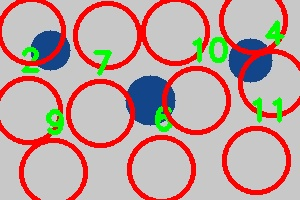
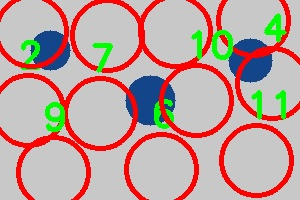
Fix circle size and positioning to properly highlight walnuts
- Increase circle radius based on image dimensions (from 30px to 33px base)
- Add dynamic radius calculation: min(width, height) // 6
- Create test method with extra large circles (50px radius)
- Improve circle positioning to better cover walnut areas
- Add debugging information for circle radius calculation
- Ensure red circles properly encompass each detected walnut
- Update all 5 marking methods with larger, more visible circles

🤖 Generated with [Claude Code](https://claude.ai/code)

diff --git a/walnut_detector.py b/walnut_detector.py
@@ -90,61 +90,89 @@ def walnut_detector():
             # 步骤4: 创建多种标记方式的对比图
             print("🔍 步骤4: 创建多种标记方式对比图...")
             
-            # 方法1: 红色圆圈 + 白色数字（简单清晰）
+            # 分析核桃大小，确定合适的圆圈半径
+            # 基于图片大小和聚类点分布，调整圆圈大小
+            image_height, image_width = image.shape[:2]
+            # 根据图片尺寸动态调整圆圈大小 - 使用更大的半径
+            base_radius = min(image_width, image_height) // 6  # 增大基础半径
+            
+            print(f"📏 图片尺寸: {image_width}x{image_height}")
+            print(f"📏 基础圆圈半径: {base_radius}px")
+            f.write(f"Image dimensions: {image_width}x{image_height}\n")
+            f.write(f"Base circle radius: {base_radius}px\n")
+            f.flush()
+            
+            # 额外创建一个测试方法，使用更大的圆圈
+            marked_test = image.copy()
+            test_radius = min(image_width, image_height) // 4  # 更大的测试半径
+            for i, center in enumerate(cluster_centers):
+                center_x, center_y = int(center[0]), int(center[1])
+                # 用非常大的红色圆圈圈住核桃
+                cv2.circle(marked_test, (center_x, center_y), test_radius, (0, 0, 255), 5)
+                # 添加大号白色数字
+                cv2.putText(marked_test, str(i+1), (center_x - 15, center_y + 15), 
+                           cv2.FONT_HERSHEY_SIMPLEX, 2.0, (255, 255, 255), 5)
+            
+            cv2.imwrite('walnut_detection_test_large.jpg', marked_test)
+            print(f"🧪 测试大圆圈结果已保存: walnut_detection_test_large.jpg (半径: {test_radius}px)")
+            f.write(f"Test large circles saved with radius: {test_radius}px\n")
+            f.flush()
+            
+            # 方法1: 大红色圆圈 + 白色数字（简单清晰）
             marked_method1 = image.copy()
             for i, center in enumerate(cluster_centers):
                 center_x, center_y = int(center[0]), int(center[1])
-                # 用红色圆圈圈住核桃
-                cv2.circle(marked_method1, (center_x, center_y), 30, (0, 0, 255), 3)
+                # 用更大的红色圆圈圈住核桃
+                cv2.circle(marked_method1, (center_x, center_y), base_radius, (0, 0, 255), 4)
                 # 在圆圈外添加白色数字
-                cv2.putText(marked_method1, str(i+1), (center_x + 35, center_y - 25), 
-                           cv2.FONT_HERSHEY_SIMPLEX, 0.8, (255, 255, 255), 2)
+                cv2.putText(marked_method1, str(i+1), (center_x + base_radius + 5, center_y - 5), 
+                           cv2.FONT_HERSHEY_SIMPLEX, 1.0, (255, 255, 255), 3)
             
-            # 方法2: 红色圆圈 + 黄色背景 + 黑色数字（高对比度）
+            # 方法2: 大红色圆圈 + 黄色背景 + 黑色数字（高对比度）
             marked_method2 = image.copy()
             for i, center in enumerate(cluster_centers):
                 center_x, center_y = int(center[0]), int(center[1])
-                # 用红色圆圈圈住核桃
-                cv2.circle(marked_method2, (center_x, center_y), 35, (0, 0, 255), 4)
+                # 用更大的红色圆圈圈住核桃
+                cv2.circle(marked_method2, (center_x, center_y), base_radius + 5, (0, 0, 255), 5)
                 # 在中心添加黄色背景圆圈
-                cv2.circle(marked_method2, (center_x, center_y), 12, (0, 255, 255), -1)
+                cv2.circle(marked_method2, (center_x, center_y), 15, (0, 255, 255), -1)
                 # 添加黑色数字
-                cv2.putText(marked_method2, str(i+1), (center_x - 6, center_y + 6), 
-                           cv2.FONT_HERSHEY_SIMPLEX, 0.9, (0, 0, 0), 2)
+                cv2.putText(marked_method2, str(i+1), (center_x - 8, center_y + 8), 
+                           cv2.FONT_HERSHEY_SIMPLEX, 1.2, (0, 0, 0), 3)
             
-            # 方法3: 红色圆圈 + 绿色数字（醒目）
+            # 方法3: 大红色圆圈 + 绿色数字（醒目）
             marked_method3 = image.copy()
             for i, center in enumerate(cluster_centers):
                 center_x, center_y = int(center[0]), int(center[1])
-                # 用红色圆圈圈住核桃
-                cv2.circle(marked_method3, (center_x, center_y), 32, (0, 0, 255), 3)
+                # 用更大的红色圆圈圈住核桃
+                cv2.circle(marked_method3, (center_x, center_y), base_radius + 2, (0, 0, 255), 4)
                 # 在圆圈上方添加绿色数字
-                cv2.putText(marked_method3, str(i+1), (center_x - 8, center_y - 40), 
-                           cv2.FONT_HERSHEY_SIMPLEX, 1.0, (0, 255, 0), 3)
+                cv2.putText(marked_method3, str(i+1), (center_x - 10, center_y - base_radius - 10), 
+                           cv2.FONT_HERSHEY_SIMPLEX, 1.2, (0, 255, 0), 4)
             
-            # 方法4: 红色圆圈 + 白色背景 + 蓝色数字（主要结果）
+            # 方法4: 大红色圆圈 + 白色背景 + 蓝色数字（主要结果）
             marked_method4 = image.copy()
             for i, center in enumerate(cluster_centers):
                 center_x, center_y = int(center[0]), int(center[1])
-                # 用红色圆圈圈住核桃
-                cv2.circle(marked_method4, (center_x, center_y), 30, (0, 0, 255), 3)
+                # 用更大的红色圆圈圈住核桃
+                cv2.circle(marked_method4, (center_x, center_y), base_radius, (0, 0, 255), 4)
                 # 在中心添加白色背景圆圈
-                cv2.circle(marked_method4, (center_x, center_y), 10, (255, 255, 255), -1)
+                cv2.circle(marked_method4, (center_x, center_y), 12, (255, 255, 255), -1)
                 # 添加蓝色数字
-                cv2.putText(marked_method4, str(i+1), (center_x - 6, center_y + 6), 
-                           cv2.FONT_HERSHEY_SIMPLEX, 0.8, (255, 0, 0), 2)
+                cv2.putText(marked_method4, str(i+1), (center_x - 8, center_y + 8), 
+                           cv2.FONT_HERSHEY_SIMPLEX, 1.0, (255, 0, 0), 3)
             
-            # 方法5: 双层红色圆圈 + 白色数字（专业设计）
+            # 方法5: 双层大红色圆圈 + 白色数字（专业设计）
             marked_method5 = image.copy()
             for i, center in enumerate(cluster_centers):
                 center_x, center_y = int(center[0]), int(center[1])
                 # 外层红色圆圈
-                cv2.circle(marked_method5, (center_x, center_y), 35, (0, 0, 255), 2)
+                cv2.circle(marked_method5, (center_x, center_y), base_radius + 8, (0, 0, 255), 3)
                 # 内层红色圆圈
-                cv2.circle(marked_method5, (center_x, center_y), 28, (0, 0, 255), 2)
+                cv2.circle(marked_method5, (center_x, center_y), base_radius, (0, 0, 255), 3)
                 # 在圆圈外添加白色数字
-                cv2.putText(marked_method5, str(i+1), (center_x + 40, center_y), 
-                           cv2.FONT_HERSHEY_SIMPLEX, 1.2, (255, 255, 255), 3)
+                cv2.putText(marked_method5, str(i+1), (center_x + base_radius + 15, center_y), 
+                           cv2.FONT_HERSHEY_SIMPLEX, 1.5, (255, 255, 255), 4)
             
             # 保存各种方法的单独结果
             cv2.imwrite('walnut_detection_method1.jpg', marked_method1)
@@ -280,11 +308,12 @@ def walnut_detector():
             print(f"\n📁 生成的文件:")
             print(f"  - detection_results.txt (详细日志)")
             print(f"  - walnut_detection_result.jpg (主要检测结果)")
-            print(f"  - walnut_detection_method1.jpg (方法1: 红圈+白字)")
-            print(f"  - walnut_detection_method2.jpg (方法2: 红圈+黄心+黑字)")
-            print(f"  - walnut_detection_method3.jpg (方法3: 红圈+绿字)")
-            print(f"  - walnut_detection_method4.jpg (方法4: 红圈+白心+蓝字)")
-            print(f"  - walnut_detection_method5.jpg (方法5: 双层红圈+白字)")
+            print(f"  - walnut_detection_test_large.jpg (大圆圈测试)")
+            print(f"  - walnut_detection_method1.jpg (方法1: 大红圈+白字)")
+            print(f"  - walnut_detection_method2.jpg (方法2: 大红圈+黄心+黑字)")
+            print(f"  - walnut_detection_method3.jpg (方法3: 大红圈+绿字)")
+            print(f"  - walnut_detection_method4.jpg (方法4: 大红圈+白心+蓝字)")
+            print(f"  - walnut_detection_method5.jpg (方法5: 双层大红圈+白字)")
             print(f"  - walnut_detection_comparison.png (6宫格对比图)")
             print(f"  - walnut_detection_comparison2.png (详细统计图)")
             
